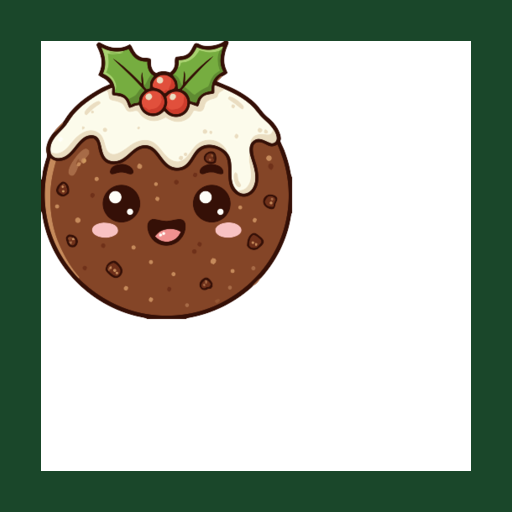
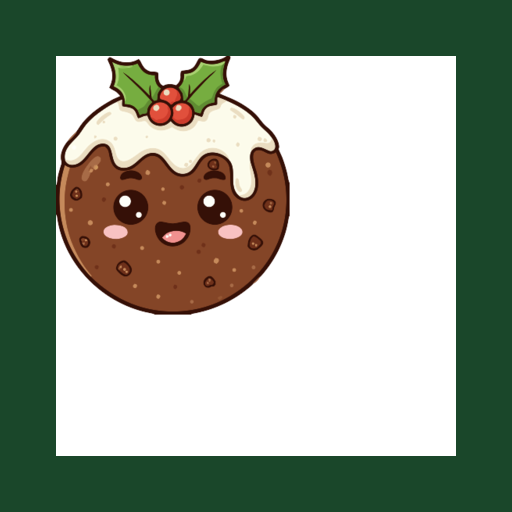
Adjust food sizes, swap broccoli/potato order, and fix PWA paths
- Increase food size range (15-75px) for better visual distinction
- Swap broccoli and potato positions so two broccolis merge into potato
- Regenerate app icons with properly flattened green background
- Simplify PWA paths (remove ./ prefix) for better iOS compatibility
- Bump service worker cache to v2 to force refresh

Changed region(s): [[0.0625, 0.0625, 0.9375, 0.9375], [0.2812, 0.5, 0.3125, 0.5312], [0.25, 0.4688, 0.2812, 0.5]]

diff --git a/game.js b/game.js
@@ -1,16 +1,16 @@
 // Food configuration (smallest to largest)
 const FOODS = [
-    { name: 'cranberry', svg: 'assets/cranberry.svg', radius: 18, score: 1 },
-    { name: 'sprout', svg: 'assets/sprout.svg', radius: 21, score: 2 },
-    { name: 'carrot', svg: 'assets/carrot.svg', radius: 25, score: 4 },
-    { name: 'cabbage', svg: 'assets/cabbage.svg', radius: 28, score: 8 },
-    { name: 'potato', svg: 'assets/potato.svg', radius: 32, score: 16 },
-    { name: 'broccoli', svg: 'assets/broccoli.svg', radius: 35, score: 32 },
-    { name: 'yorkshire', svg: 'assets/yorkshire.svg', radius: 39, score: 64 },
-    { name: 'sausage', svg: 'assets/sausage.svg', radius: 42, score: 128 },
-    { name: 'stuffing', svg: 'assets/stuffing.svg', radius: 48, score: 256 },
-    { name: 'turkey', svg: 'assets/turkey.svg', radius: 53, score: 512 },
-    { name: 'pudding', svg: 'assets/pudding.svg', radius: 60, score: 1024 }
+    { name: 'cranberry', svg: 'assets/cranberry.svg', radius: 15, score: 1 },
+    { name: 'sprout', svg: 'assets/sprout.svg', radius: 19, score: 2 },
+    { name: 'carrot', svg: 'assets/carrot.svg', radius: 24, score: 4 },
+    { name: 'cabbage', svg: 'assets/cabbage.svg', radius: 29, score: 8 },
+    { name: 'broccoli', svg: 'assets/broccoli.svg', radius: 34, score: 16 },
+    { name: 'potato', svg: 'assets/potato.svg', radius: 40, score: 32 },
+    { name: 'yorkshire', svg: 'assets/yorkshire.svg', radius: 46, score: 64 },
+    { name: 'sausage', svg: 'assets/sausage.svg', radius: 52, score: 128 },
+    { name: 'stuffing', svg: 'assets/stuffing.svg', radius: 58, score: 256 },
+    { name: 'turkey', svg: 'assets/turkey.svg', radius: 66, score: 512 },
+    { name: 'pudding', svg: 'assets/pudding.svg', radius: 75, score: 1024 }
 ];
 
 // Weighted spawn probabilities (only first 5 can spawn)

diff --git a/service-worker.js b/service-worker.js
@@ -1,24 +1,24 @@
-const CACHE_NAME = 'kate-christmas-v1';
+const CACHE_NAME = 'kate-christmas-v2';
 const urlsToCache = [
-    './',
-    './index.html',
-    './style.css',
-    './game.js',
-    './manifest.json',
-    './assets/background.png',
-    './assets/cranberry.svg',
-    './assets/sprout.svg',
-    './assets/carrot.svg',
-    './assets/cabbage.svg',
-    './assets/potato.svg',
-    './assets/broccoli.svg',
-    './assets/yorkshire.svg',
-    './assets/sausage.svg',
-    './assets/stuffing.svg',
-    './assets/turkey.svg',
-    './assets/pudding.svg',
-    './icons/icon-192.png',
-    './icons/icon-512.png',
+    '.',
+    'index.html',
+    'style.css',
+    'game.js',
+    'manifest.json',
+    'assets/background.png',
+    'assets/cranberry.svg',
+    'assets/sprout.svg',
+    'assets/carrot.svg',
+    'assets/cabbage.svg',
+    'assets/potato.svg',
+    'assets/broccoli.svg',
+    'assets/yorkshire.svg',
+    'assets/sausage.svg',
+    'assets/stuffing.svg',
+    'assets/turkey.svg',
+    'assets/pudding.svg',
+    'icons/icon-192.png',
+    'icons/icon-512.png',
     'https://cdnjs.cloudflare.com/ajax/libs/matter-js/0.19.0/matter.min.js'
 ];
 

diff --git a/index.html b/index.html
@@ -37,7 +37,7 @@
     <script>
         if ('serviceWorker' in navigator) {
             window.addEventListener('load', () => {
-                navigator.serviceWorker.register('./service-worker.js')
+                navigator.serviceWorker.register('service-worker.js')
                     .then((registration) => {
                         console.log('Service Worker registered:', registration.scope);
                     })
